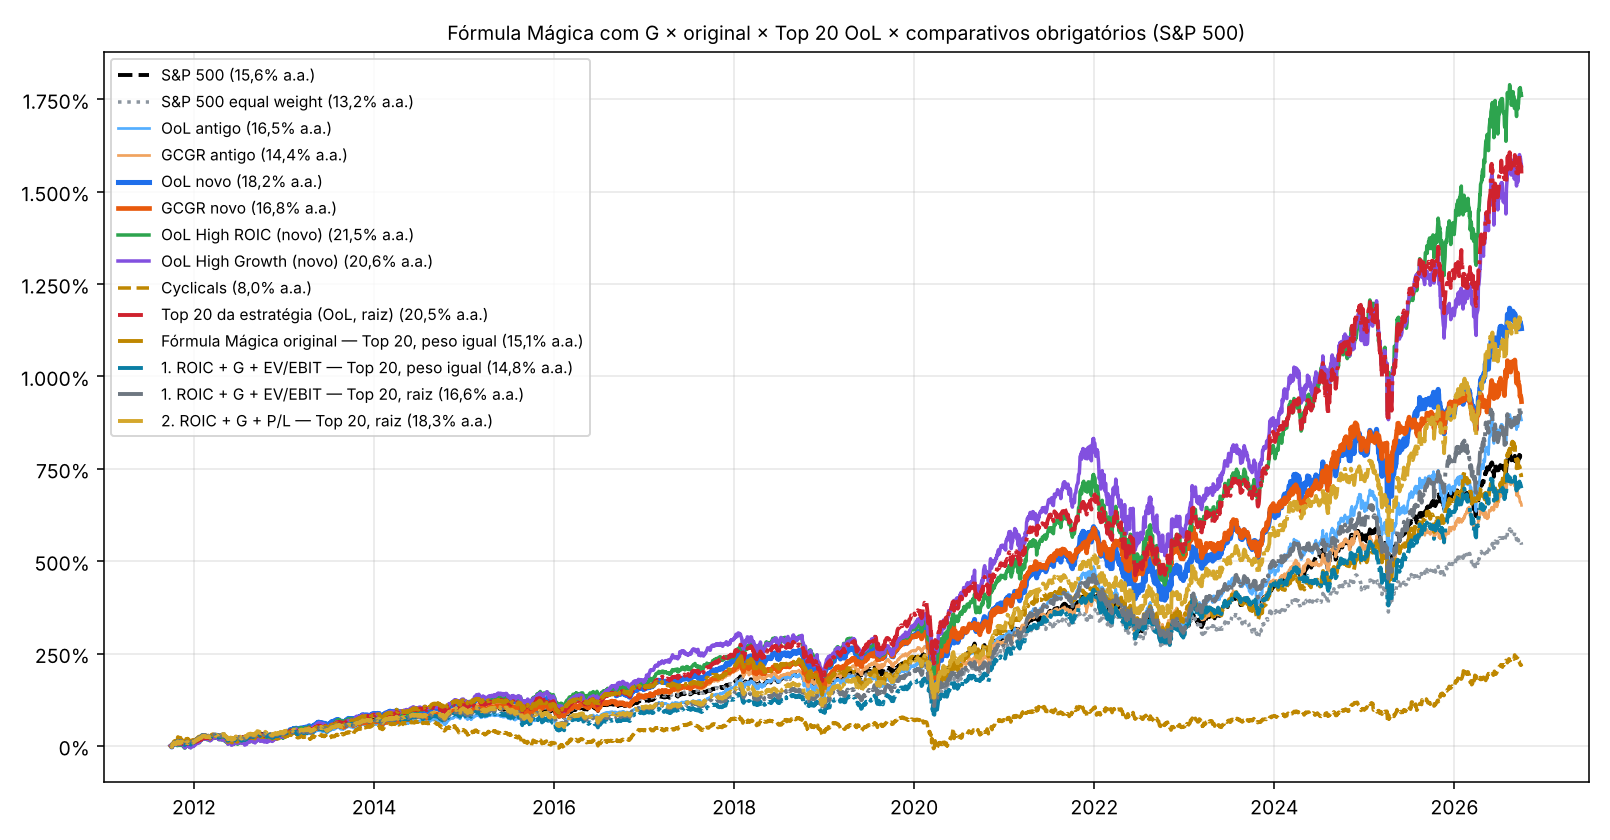
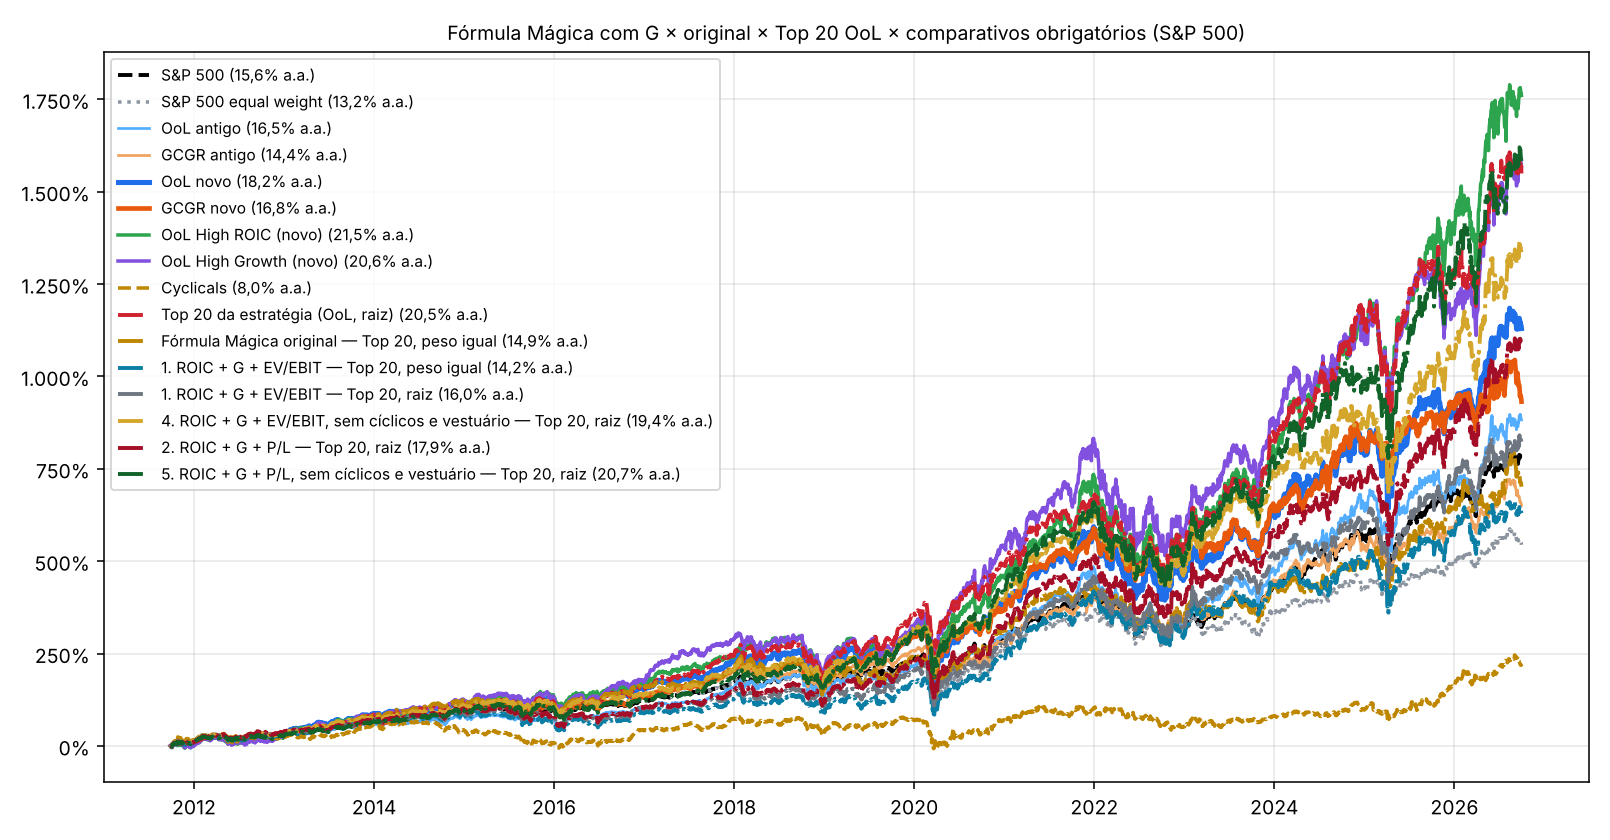
ROIC + G + P/L sem ciclicos: resultado
Claude-Session: https://claude.ai/code/session_0163Rqzt5kBig7h4xGh44EtX

Changed region(s): [[0.0932, 0.1857, 0.9627, 0.8976], [0.0621, 0.4952, 0.4348, 0.5881], [0.3106, 0.4024, 0.3727, 0.4333]]

diff --git a/price_tracker/backtest/magic_g.py b/price_tracker/backtest/magic_g.py
@@ -8,6 +8,7 @@ import top_n  # noqa: E402
 from pesos import run_weighted  # noqa: E402
 from backtest import D  # noqa: E402
 from roic3_backtest import top20  # noqa: E402
+from pesos import DUAL  # noqa: E402
 
 
 def score(x, cols):
@@ -20,7 +21,8 @@ def score(x, cols):
 def build(F, n, wt='eq'):
     out = {}
     for d, g in F.groupby('date'):
-        ch = g.sort_values('score').head(n)
+        g = g.assign(firm=g.ticker.map(lambda t: DUAL.get(t, t))).sort_values('score').drop_duplicates('firm')  # classe dupla conta uma vez
+        ch = g.head(n)
         out[d] = pd.Series(1.0, index=ch.ticker) if wt == 'eq' else top_n.cap(pd.Series(np.sqrt(ch.mcap.values), index=ch.ticker), .10)
     return out
 
@@ -49,6 +51,8 @@ def main():
     y['score'] = score(y, [('roic', False), ('growth', False), ('pe', True)]); V['2. ROIC + G + P/L'] = y
     z = allm[allm.pe.notna() & allm.roic.notna() & allm.growth.notna() & allm.mcap.notna()].copy()
     z['score'] = score(z, [('roic', False), ('growth', False), ('pe', True)]); V['3. ROIC + G + P/L, com financeiras e utilities'] = z
+    V['5. ROIC + G + P/L, sem cíclicos e vestuário'] = y[~y.excluded].assign(score=lambda d: score(d, [('roic', False), ('growth', False), ('pe', True)]))
+    V['6. ROIC + G + P/L, sem cíclicos e vestuário, com financeiras e utilities'] = z[~z.excluded].assign(score=lambda d: score(d, [('roic', False), ('growth', False), ('pe', True)]))
     o = base[~base.fin & (base.sector != 'Utilities') & base.roc.notna() & base.ey.notna()].copy()
     o['score'] = score(o, [('roc', False), ('ey', False)])
     navs, n, _, _ = bm.load_benchmarks()
@@ -56,7 +60,7 @@ def main():
     navs['Fórmula Mágica original — Top 20, peso igual'] = run_weighted(build(o, 20), adj, dates); n['Fórmula Mágica original — Top 20, peso igual'] = 20
     navs['Fórmula Mágica original — Top 20, raiz'] = run_weighted(build(o, 20, 'sqrt'), adj, dates); n['Fórmula Mágica original — Top 20, raiz'] = 20
     for k, F in V.items():
-        main_ = k.startswith('1.') or k.startswith('2.')
+        main_ = k[:2] in ('1.', '2.', '5.')
         navs[f'{k} — Top 20, peso igual'] = run_weighted(build(F, 20), adj, dates); n[f'{k} — Top 20, peso igual'] = 20
         navs[f'{k} — Top 20, raiz'] = run_weighted(build(F, 20, 'sqrt'), adj, dates); n[f'{k} — Top 20, raiz'] = 20
         if main_:
@@ -77,14 +81,14 @@ def main():
     for col in E.columns: q = E[col].loc[t1:].dropna(); sub[col] = q / q.iloc[0]
     out += ['', f'## 2. Período dos ETFs ({t1:%m/%Y}–{dates[-1]:%m/%Y})\n'] + bm.bench_table(sub, n)
     u = pd.read_csv(D / 'universe.csv').drop_duplicates('ticker').set_index('ticker')
-    for k in ('1. ROIC + G + EV/EBIT', '2. ROIC + G + P/L'):
-        F = V[k]; l = F[F.date == F.date.max()].sort_values('score').head(20)
+    for k in ('5. ROIC + G + P/L, sem cíclicos e vestuário', '4. ROIC + G + EV/EBIT, sem cíclicos e vestuário'):
+        F = V[k]; l = F[F.date == F.date.max()].assign(firm=lambda d: d.ticker.map(lambda t: DUAL.get(t, t))).sort_values('score').drop_duplicates('firm').head(20)
         out += ['', f'## Hoje ({F.date.max():%m/%Y}) — {k}, Top 20\n', '| # | Ação | Empresa | Setor | ROIC | Crescimento | ' + ('EV/EBIT' if 'EV' in k else 'P/L') + ' |', '|---|---|---|---|---|---|---|']
         out += [f"| {i} | {r.ticker} | {str(u.name.get(r.ticker, r.ticker))[:28]} | {r.sector} | {r.roic:.0%} | {r.growth:.0%} | {(r.ev_ebit if 'EV' in k else r.pe):.1f} |".replace('.', ',')
                 for i, r in enumerate(l.itertuples(), 1)]
     (ROOT / 'magic_g.md').write_text('\n'.join(out)); print('\n'.join(out))
     bm.bench_plot({k: v for k, v in navs.items() if k in bm.ORDER or k.startswith('Top 20 da') or k in ('Fórmula Mágica original — Top 20, peso igual',
-                   '1. ROIC + G + EV/EBIT — Top 20, peso igual', '1. ROIC + G + EV/EBIT — Top 20, raiz', '2. ROIC + G + P/L — Top 20, raiz')},
+                   '1. ROIC + G + EV/EBIT — Top 20, peso igual', '1. ROIC + G + EV/EBIT — Top 20, raiz', '2. ROIC + G + P/L — Top 20, raiz', '4. ROIC + G + EV/EBIT, sem cíclicos e vestuário — Top 20, raiz', '5. ROIC + G + P/L, sem cíclicos e vestuário — Top 20, raiz')},
                   ROOT / 'magic_g.png', 'Fórmula Mágica com G × original × Top 20 OoL × comparativos obrigatórios (S&P 500)')
 
 

diff --git a/price_tracker/backtest/magic_g.md b/price_tracker/backtest/magic_g.md
@@ -18,20 +18,26 @@ S&P 500 point-in-time, 09/2011 a 09/2026, trimestral salvo indicação, sem cust
 | OoL High Growth (novo) | 1569,9% | 20,6% | 22,4% | -34,0% | 16 | 92% | 100% | 100% | -3,9 | +0,2 |
 | Cyclicals | 216,1% | 8,0% | 23,6% | -48,2% | 5 | 7% | 0% | 0% | -19,7 | -13,9 |
 | Top 20 da estratégia (OoL, raiz) | 1549,3% | 20,5% | 20,4% | -34,4% | 20 | 100% | 100% | 100% | +1,1 | +1,6 |
-| Fórmula Mágica original — Top 20, peso igual | 723,8% | 15,1% | 19,7% | -36,6% | 20 | 46% | 28% | 26% | -8,1 | -4,5 |
-| Fórmula Mágica original — Top 20, raiz | 860,7% | 16,3% | 18,5% | -30,9% | 20 | 63% | 50% | 61% | -8,3 | -4,6 |
-| 1. ROIC + G + EV/EBIT — Top 20, peso igual | 697,5% | 14,8% | 20,6% | -34,8% | 20 | 30% | 52% | 54% | -8,6 | -7,0 |
-| 1. ROIC + G + EV/EBIT — Top 20, raiz | 896,1% | 16,6% | 20,2% | -34,4% | 20 | 46% | 58% | 89% | -6,5 | -5,2 |
-| 1. ROIC + G + EV/EBIT — Top 30, peso igual | 811,6% | 15,9% | 19,9% | -34,8% | 30 | 36% | 55% | 74% | -5,4 | -4,8 |
-| 1. ROIC + G + EV/EBIT — Top 30, troca anual | 701,6% | 15,7% | 19,2% | -34,7% | 30 | 43% | 62% | 96% | -4,8 | -4,0 |
-| 4. ROIC + G + EV/EBIT, sem cíclicos e vestuário — Top 20, peso igual | 1284,2% | 19,1% | 20,0% | -33,2% | 20 | 85% | 99% | 100% | -3,3 | -0,2 |
-| 4. ROIC + G + EV/EBIT, sem cíclicos e vestuário — Top 20, raiz | 1393,1% | 19,7% | 19,8% | -32,8% | 20 | 96% | 99% | 100% | -0,8 | -0,2 |
-| 2. ROIC + G + P/L — Top 20, peso igual | 908,0% | 16,7% | 21,2% | -33,2% | 20 | 48% | 63% | 100% | -9,1 | -5,1 |
-| 2. ROIC + G + P/L — Top 20, raiz | 1142,6% | 18,3% | 20,7% | -33,1% | 20 | 65% | 64% | 100% | -6,8 | -3,8 |
-| 2. ROIC + G + P/L — Top 30, peso igual | 938,8% | 16,9% | 20,2% | -33,3% | 30 | 60% | 64% | 100% | -6,6 | -3,7 |
-| 2. ROIC + G + P/L — Top 30, troca anual | 769,1% | 16,4% | 19,6% | -34,2% | 30 | 56% | 68% | 100% | -5,1 | -3,4 |
-| 3. ROIC + G + P/L, com financeiras e utilities — Top 20, peso igual | 1105,9% | 18,1% | 20,5% | -35,3% | 20 | 62% | 72% | 100% | -6,7 | -4,8 |
-| 3. ROIC + G + P/L, com financeiras e utilities — Top 20, raiz | 1238,6% | 18,9% | 20,1% | -34,5% | 20 | 74% | 81% | 100% | -3,9 | -2,9 |
+| Fórmula Mágica original — Top 20, peso igual | 701,5% | 14,9% | 19,7% | -36,6% | 20 | 46% | 25% | 26% | -8,4 | -4,8 |
+| Fórmula Mágica original — Top 20, raiz | 789,3% | 15,7% | 18,4% | -30,9% | 20 | 54% | 41% | 39% | -8,3 | -4,6 |
+| 1. ROIC + G + EV/EBIT — Top 20, peso igual | 629,7% | 14,2% | 20,7% | -34,8% | 20 | 30% | 51% | 43% | -8,6 | -7,0 |
+| 1. ROIC + G + EV/EBIT — Top 20, raiz | 823,0% | 16,0% | 20,1% | -34,4% | 20 | 43% | 56% | 87% | -6,5 | -5,1 |
+| 1. ROIC + G + EV/EBIT — Top 30, peso igual | 773,7% | 15,5% | 19,9% | -34,8% | 30 | 34% | 50% | 72% | -5,4 | -4,6 |
+| 1. ROIC + G + EV/EBIT — Top 30, troca anual | 678,9% | 15,5% | 19,2% | -34,8% | 30 | 42% | 61% | 96% | -4,8 | -3,9 |
+| 4. ROIC + G + EV/EBIT, sem cíclicos e vestuário — Top 20, peso igual | 1260,1% | 19,0% | 19,9% | -33,2% | 20 | 81% | 99% | 100% | -3,8 | -0,2 |
+| 4. ROIC + G + EV/EBIT, sem cíclicos e vestuário — Top 20, raiz | 1336,0% | 19,4% | 19,6% | -32,8% | 20 | 97% | 99% | 100% | -0,8 | -0,2 |
+| 2. ROIC + G + P/L — Top 20, peso igual | 872,2% | 16,4% | 21,1% | -33,2% | 20 | 45% | 60% | 100% | -9,1 | -5,1 |
+| 2. ROIC + G + P/L — Top 20, raiz | 1087,0% | 17,9% | 20,7% | -33,1% | 20 | 64% | 64% | 100% | -6,8 | -3,8 |
+| 2. ROIC + G + P/L — Top 30, peso igual | 899,2% | 16,6% | 20,2% | -33,3% | 30 | 58% | 64% | 100% | -6,6 | -3,7 |
+| 2. ROIC + G + P/L — Top 30, troca anual | 754,0% | 16,2% | 19,6% | -34,2% | 30 | 54% | 68% | 100% | -5,1 | -3,4 |
+| 3. ROIC + G + P/L, com financeiras e utilities — Top 20, peso igual | 1070,3% | 17,8% | 20,5% | -35,3% | 20 | 59% | 71% | 100% | -6,7 | -4,8 |
+| 3. ROIC + G + P/L, com financeiras e utilities — Top 20, raiz | 1192,4% | 18,6% | 20,1% | -34,5% | 20 | 74% | 81% | 100% | -3,9 | -2,9 |
+| 5. ROIC + G + P/L, sem cíclicos e vestuário — Top 20, peso igual | 1551,7% | 20,6% | 20,5% | -32,4% | 20 | 99% | 100% | 100% | -0,9 | +0,7 |
+| 5. ROIC + G + P/L, sem cíclicos e vestuário — Top 20, raiz | 1582,9% | 20,7% | 20,2% | -32,2% | 20 | 97% | 98% | 100% | -1,1 | -0,5 |
+| 5. ROIC + G + P/L, sem cíclicos e vestuário — Top 30, peso igual | 1301,2% | 19,2% | 19,5% | -32,4% | 30 | 98% | 100% | 100% | -0,3 | +0,5 |
+| 5. ROIC + G + P/L, sem cíclicos e vestuário — Top 30, troca anual | 1019,9% | 18,5% | 19,1% | -33,7% | 30 | 96% | 95% | 100% | -0,8 | -0,8 |
+| 6. ROIC + G + P/L, sem cíclicos e vestuário, com financeiras e utilities — Top 20, peso igual | 1380,1% | 19,7% | 20,0% | -35,5% | 20 | 88% | 94% | 100% | -1,7 | -0,5 |
+| 6. ROIC + G + P/L, sem cíclicos e vestuário, com financeiras e utilities — Top 20, raiz | 1392,0% | 19,7% | 19,8% | -34,7% | 20 | 99% | 100% | 100% | -0,8 | +0,7 |
 
 ## 2. Período dos ETFs (12/2019–09/2026)
 
@@ -47,63 +53,65 @@ S&P 500 point-in-time, 09/2011 a 09/2026, trimestral salvo indicação, sem cust
 | OoL High Growth (novo) | 294,8% | 22,6% | 25,5% | -34,0% | 16 | 93% | 100% | — | -1,9 | +0,2 |
 | Cyclicals | 86,1% | 9,6% | 26,9% | -46,2% | 5 | 13% | 0% | — | -16,1 | -11,3 |
 | Top 20 da estratégia (OoL, raiz) | 264,4% | 21,1% | 24,3% | -34,4% | 20 | 100% | 100% | — | +3,4 | +3,4 |
-| Fórmula Mágica original — Top 20, peso igual | 143,0% | 14,1% | 23,3% | -36,5% | 20 | 24% | 9% | — | -7,6 | -4,3 |
-| Fórmula Mágica original — Top 20, raiz | 198,1% | 17,6% | 21,6% | -30,4% | 20 | 78% | 100% | — | -3,1 | +0,5 |
-| 1. ROIC + G + EV/EBIT — Top 20, raiz | 229,4% | 19,3% | 24,1% | -34,4% | 20 | 74% | 100% | — | -1,8 | +0,8 |
-| 4. ROIC + G + EV/EBIT, sem cíclicos e vestuário — Top 20, raiz | 261,2% | 21,0% | 23,9% | -32,8% | 20 | 93% | 100% | — | -0,4 | +2,3 |
-| 2. ROIC + G + P/L — Top 20, raiz | 275,7% | 21,7% | 24,9% | -33,1% | 20 | 100% | 100% | — | +1,0 | +2,8 |
-| 3. ROIC + G + P/L, com financeiras e utilities — Top 20, raiz | 271,4% | 21,5% | 23,7% | -34,5% | 20 | 98% | 100% | — | -0,9 | +2,1 |
+| Fórmula Mágica original — Top 20, peso igual | 136,4% | 13,6% | 23,4% | -36,5% | 20 | 22% | 5% | — | -8,4 | -4,8 |
+| Fórmula Mágica original — Top 20, raiz | 176,0% | 16,2% | 21,5% | -30,4% | 20 | 50% | 68% | — | -4,6 | -1,3 |
+| 1. ROIC + G + EV/EBIT — Top 20, raiz | 203,0% | 17,9% | 24,0% | -34,4% | 20 | 61% | 86% | — | -4,7 | -0,8 |
+| 4. ROIC + G + EV/EBIT, sem cíclicos e vestuário — Top 20, raiz | 247,3% | 20,3% | 23,5% | -32,8% | 20 | 96% | 100% | — | -0,2 | +2,2 |
+| 2. ROIC + G + P/L — Top 20, raiz | 258,9% | 20,8% | 24,9% | -33,1% | 20 | 98% | 100% | — | -0,8 | +1,6 |
+| 3. ROIC + G + P/L, com financeiras e utilities — Top 20, raiz | 258,5% | 20,8% | 23,7% | -34,5% | 20 | 98% | 100% | — | -0,9 | +1,3 |
+| 5. ROIC + G + P/L, sem cíclicos e vestuário — Top 20, raiz | 316,3% | 23,5% | 24,6% | -32,2% | 20 | 100% | 100% | — | +3,3 | +5,2 |
+| 6. ROIC + G + P/L, sem cíclicos e vestuário, com financeiras e utilities — Top 20, raiz | 254,1% | 20,6% | 23,5% | -34,7% | 20 | 98% | 100% | — | -0,8 | +1,3 |
 | SPYG parado | 210,9% | 18,3% | 23,5% | -32,7% | — | 41% | 95% | — | -3,6 | -0,1 |
 | Os 2 ETFs com mais OoL — troca mensal | 220,7% | 18,8% | 23,9% | -33,7% | — | 59% | 100% | — | -2,4 | +0,2 |
 | ETF com mais OoL — troca mensal | 222,3% | 18,9% | 23,9% | -32,7% | — | 59% | 95% | — | -2,5 | -0,3 |
 | ETF com mais OoL — troca trimestral | 217,1% | 18,7% | 23,9% | -32,7% | — | 43% | 82% | — | -3,3 | -0,6 |
 
-## Hoje (09/2026) — 1. ROIC + G + EV/EBIT, Top 20
-
-| # | Ação | Empresa | Setor | ROIC | Crescimento | EV/EBIT |
-|---|---|---|---|---|---|---|
-| 1 | SMCI | Supermicro | Information Technology | 28% | 94% | 8,9 |
-| 2 | DECK | Deckers Outdoor Corporation | Consumer Discretionary | 89% | 21% | 7,5 |
-| 3 | LULU | Lululemon Athletica | Consumer Discretionary | 43% | 20% | 4,4 |
-| 4 | GOOG | Alphabet Inc, | Communication Services | 44% | 34% | 15,5 |
-| 5 | GOOGL | GOOGL | Communication Services | 44% | 34% | 15,7 |
-| 6 | QCOM | QUALCOMM Incorporated | Information Technology | 43% | 40% | 16,9 |
-| 7 | LII | Lennox International | Industrials | 39% | 19% | 13,1 |
-| 8 | EME | Emcor | Industrials | 36% | 62% | 19,2 |
-| 9 | DPZ | Domino's Pizza, Inc, | Consumer Discretionary | 68% | 9% | 10,6 |
-| 10 | FICO | Fair Isaac Corporation | Information Technology | 55% | 21% | 18,9 |
-| 11 | APP | AppLovin Corporation | Communication Services | 46% | 115% | 24,2 |
-| 12 | TTD | TTD | Information Technology | 24% | 15% | 8,0 |
-| 13 | CF | CF Industries | Materials | 16% | 33% | 11,9 |
-| 14 | DAL | Delta Air Lines, Inc, | Industrials | 12% | 146% | 10,9 |
-| 15 | META | Meta Platforms, Inc, | Communication Services | 37% | 36% | 22,1 |
-| 16 | AZO | AutoZone | Consumer Discretionary | 42% | 13% | 15,9 |
-| 17 | PPG | PPG Industries | Materials | 14% | 24% | 10,6 |
-| 18 | FSLR | First Solar, Inc, | Information Technology | 17% | 18% | 10,3 |
-| 19 | RL | Ralph Lauren Corporation | Consumer Discretionary | 25% | 20% | 18,1 |
-| 20 | NVDA | NVIDIA Corporation | Information Technology | 133% | 123% | 42,9 |
-
-## Hoje (09/2026) — 2. ROIC + G + P/L, Top 20
+## Hoje (09/2026) — 5. ROIC + G + P/L, sem cíclicos e vestuário, Top 20
 
 | # | Ação | Empresa | Setor | ROIC | Crescimento | P/L |
 |---|---|---|---|---|---|---|
 | 1 | SMCI | Supermicro | Information Technology | 28% | 94% | 12,6 |
-| 2 | DECK | Deckers Outdoor Corporation | Consumer Discretionary | 89% | 21% | 11,1 |
-| 3 | LULU | Lululemon Athletica | Consumer Discretionary | 43% | 20% | 7,3 |
-| 4 | LII | Lennox International | Industrials | 39% | 19% | 15,6 |
-| 5 | APP | AppLovin Corporation | Communication Services | 46% | 115% | 29,8 |
-| 6 | FICO | Fair Isaac Corporation | Information Technology | 55% | 21% | 22,3 |
-| 7 | WDC | Western Digital Corporation | Information Technology | 20% | 84% | 18,7 |
-| 8 | EME | Emcor | Industrials | 36% | 62% | 26,8 |
-| 9 | DAL | Delta Air Lines, Inc, | Industrials | 12% | 146% | 10,9 |
-| 10 | CF | CF Industries | Materials | 16% | 33% | 12,8 |
-| 11 | DPZ | Domino's Pizza, Inc, | Consumer Discretionary | 68% | 9% | 17,1 |
-| 12 | TTD | TTD | Information Technology | 24% | 15% | 13,5 |
-| 13 | JNJ | Johnson & Johnson | Health Care | 24% | 42% | 24,0 |
-| 14 | AZO | AutoZone | Consumer Discretionary | 42% | 13% | 19,5 |
-| 15 | GOOG | Alphabet Inc, | Communication Services | 44% | 34% | 31,5 |
-| 16 | SBAC | SBA Communications | Real Estate | 13% | 51% | 16,3 |
-| 17 | META | Meta Platforms, Inc, | Communication Services | 37% | 36% | 30,9 |
-| 18 | GOOGL | GOOGL | Communication Services | 44% | 34% | 31,8 |
-| 19 | NVDA | NVIDIA Corporation | Information Technology | 133% | 123% | 46,6 |
-| 20 | FSLR | First Solar, Inc, | Information Technology | 17% | 18% | 12,3 |
+| 2 | LII | Lennox International | Industrials | 39% | 19% | 15,6 |
+| 3 | APP | AppLovin Corporation | Communication Services | 46% | 115% | 29,8 |
+| 4 | FICO | Fair Isaac Corporation | Information Technology | 55% | 21% | 22,3 |
+| 5 | WDC | Western Digital Corporation | Information Technology | 20% | 84% | 18,7 |
+| 6 | EME | Emcor | Industrials | 36% | 62% | 26,8 |
+| 7 | DPZ | Domino's Pizza, Inc, | Consumer Discretionary | 68% | 9% | 17,1 |
+| 8 | TTD | TTD | Information Technology | 24% | 15% | 13,5 |
+| 9 | JNJ | Johnson & Johnson | Health Care | 24% | 42% | 24,0 |
+| 10 | AZO | AutoZone | Consumer Discretionary | 42% | 13% | 19,5 |
+| 11 | SBAC | SBA Communications | Real Estate | 13% | 51% | 16,3 |
+| 12 | GOOG | Alphabet Inc, | Communication Services | 44% | 34% | 31,5 |
+| 13 | META | Meta Platforms, Inc, | Communication Services | 37% | 36% | 30,9 |
+| 14 | NVDA | NVIDIA Corporation | Information Technology | 133% | 123% | 46,6 |
+| 15 | FSLR | First Solar, Inc, | Information Technology | 17% | 18% | 12,3 |
+| 16 | MSFT | Microsoft Corporation | Information Technology | 43% | 20% | 28,6 |
+| 17 | PPG | PPG Industries | Materials | 14% | 24% | 15,0 |
+| 18 | AOS | A, O, Smith | Industrials | 30% | 6% | 14,6 |
+| 19 | INTU | Intuit | Information Technology | 17% | 20% | 16,8 |
+| 20 | CMG | Chipotle Mexican Grill, Inc, | Consumer Discretionary | 23% | 39% | 28,0 |
+
+## Hoje (09/2026) — 4. ROIC + G + EV/EBIT, sem cíclicos e vestuário, Top 20
+
+| # | Ação | Empresa | Setor | ROIC | Crescimento | EV/EBIT |
+|---|---|---|---|---|---|---|
+| 1 | SMCI | Supermicro | Information Technology | 28% | 94% | 8,9 |
+| 2 | GOOG | Alphabet Inc, | Communication Services | 44% | 34% | 15,5 |
+| 3 | QCOM | QUALCOMM Incorporated | Information Technology | 43% | 40% | 16,9 |
+| 4 | LII | Lennox International | Industrials | 39% | 19% | 13,1 |
+| 5 | EME | Emcor | Industrials | 36% | 62% | 19,2 |
+| 6 | DPZ | Domino's Pizza, Inc, | Consumer Discretionary | 68% | 9% | 10,6 |
+| 7 | APP | AppLovin Corporation | Communication Services | 46% | 115% | 24,2 |
+| 8 | FICO | Fair Isaac Corporation | Information Technology | 55% | 21% | 18,9 |
+| 9 | TTD | TTD | Information Technology | 24% | 15% | 8,0 |
+| 10 | META | Meta Platforms, Inc, | Communication Services | 37% | 36% | 22,1 |
+| 11 | AZO | AutoZone | Consumer Discretionary | 42% | 13% | 15,9 |
+| 12 | FSLR | First Solar, Inc, | Information Technology | 17% | 18% | 10,3 |
+| 13 | PPG | PPG Industries | Materials | 14% | 24% | 10,6 |
+| 14 | PODD | Insulet Corporation | Health Care | 17% | 97% | 20,0 |
+| 15 | NVDA | NVIDIA Corporation | Information Technology | 133% | 123% | 42,9 |
+| 16 | PAYX | Paychex | Industrials | 41% | 9% | 15,5 |
+| 17 | AOS | A, O, Smith | Industrials | 30% | 6% | 10,9 |
+| 18 | CMG | Chipotle Mexican Grill, Inc, | Consumer Discretionary | 23% | 39% | 21,7 |
+| 19 | INTU | Intuit | Information Technology | 17% | 20% | 13,5 |
+| 20 | WSM | Williams-Sonoma, Inc, | Consumer Discretionary | 46% | 11% | 19,1 |

diff --git a/price_tracker/PROTOCOLO.md b/price_tracker/PROTOCOLO.md
@@ -325,3 +325,12 @@ mercado e teto de 10%; Top 30 com troca anual (média de 4). Comparações: Fór
 com G + P/L 18,3% (65/64/100%); com G + P/L e financeiras/utilities 18,9% (74/81/100%); **com G + EV/EBIT sem cíclicos e vestuário 19,7% (96/99/100%)**;
 Top 20 OoL 20,5% (100/100/100%). Colocar o G melhora a Fórmula; tirar cíclicos e vestuário é o que mais ajuda (as listas sem o filtro trazem Delta, CF,
 Deckers, Lululemon, Ralph Lauren). Nenhuma versão bate a Top 20 OoL no período todo. Obs.: classes duplas (GOOG/GOOGL) não foram unificadas nestas versões.
+
+## 2026-11-14 — Pré-registro: ROIC + G + P/L sem cíclicos e vestuário (pedido do usuário)
+(5) ROIC + G + P/L, sem financeiras e utilities, sem cíclicos e vestuário (produto testado); (6) igual, com financeiras (ROE) e utilities (sensibilidade).
+Pensado depois de ver os resultados anteriores (risco de sobreajuste). Correção junto: classes duplas (GOOG/GOOGL etc.) contam uma vez só em todas as versões;
+todas as versões anteriores são recalculadas com essa correção.
+**Resultado (2026-11-14, com classes duplas unificadas):** (5) ROIC + G + P/L sem cíclicos e vestuário: Top 20 raiz 20,7% a.a. (janelas 3a/5a/10a 97/98/100%, pior queda −32,2%),
+peso igual 20,6% (99/100/100%); Top 20 OoL 20,5% (100/100/100%, −34,4%). (6) com financeiras e utilities: 19,7%. 2019–2026: (5) 23,5% × Top 20 OoL 21,1%.
+Empate técnico com a estratégia congelada usando só um ranking de três números — confirma que a vantagem vem de ROIC + crescimento + preço razoável + filtro de setores.
+Pensado depois dos testes anteriores: não substitui a regra congelada sem decisão do usuário.
